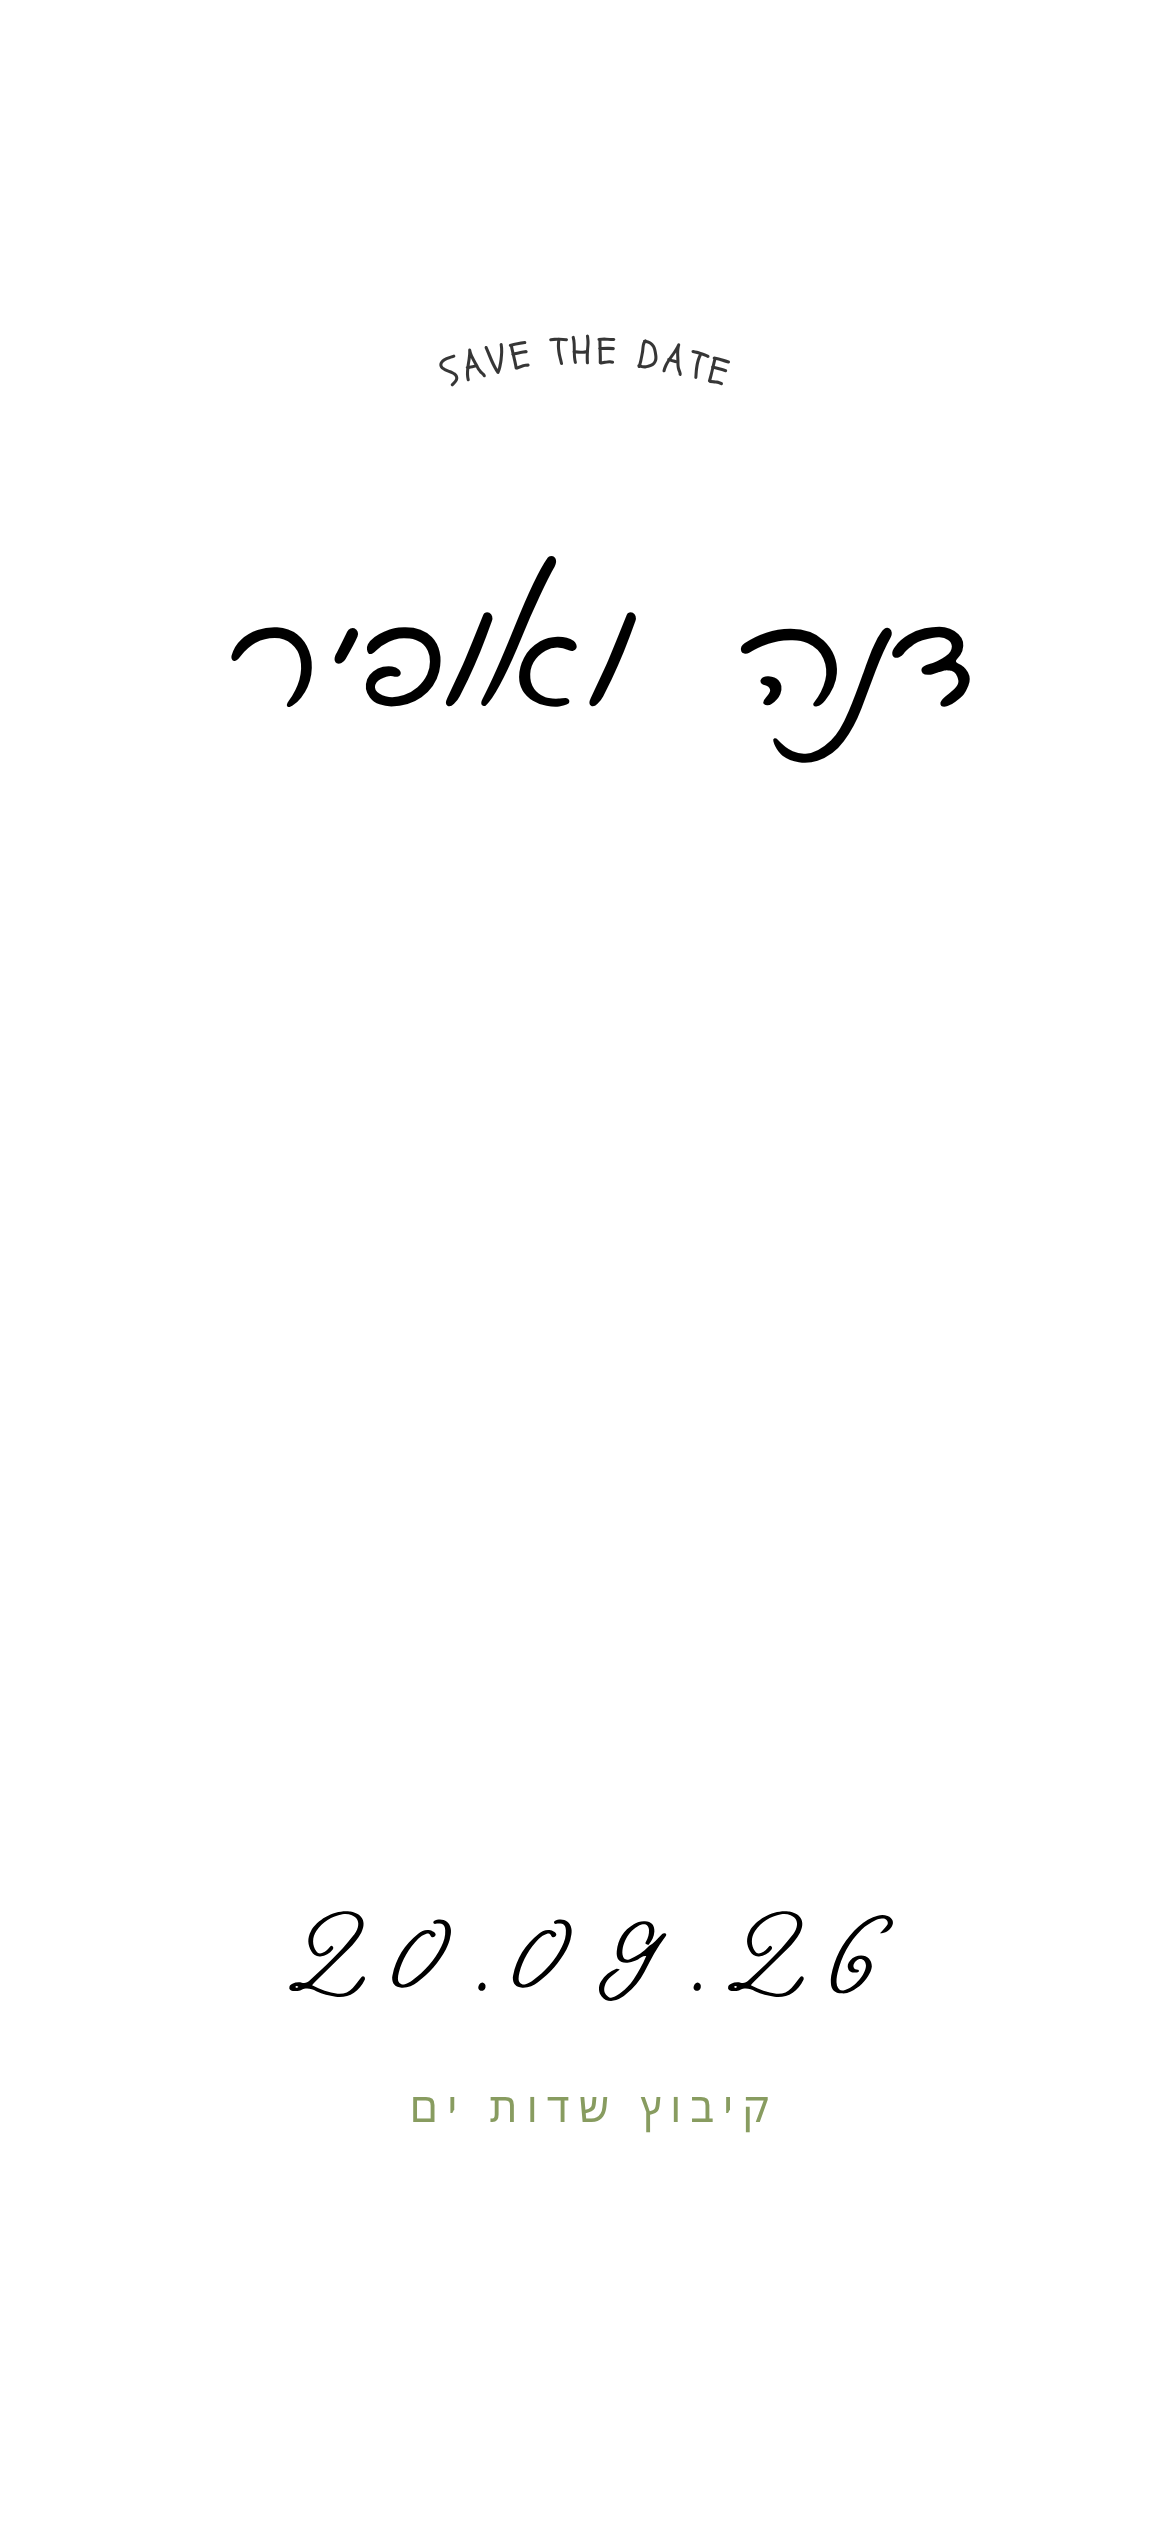
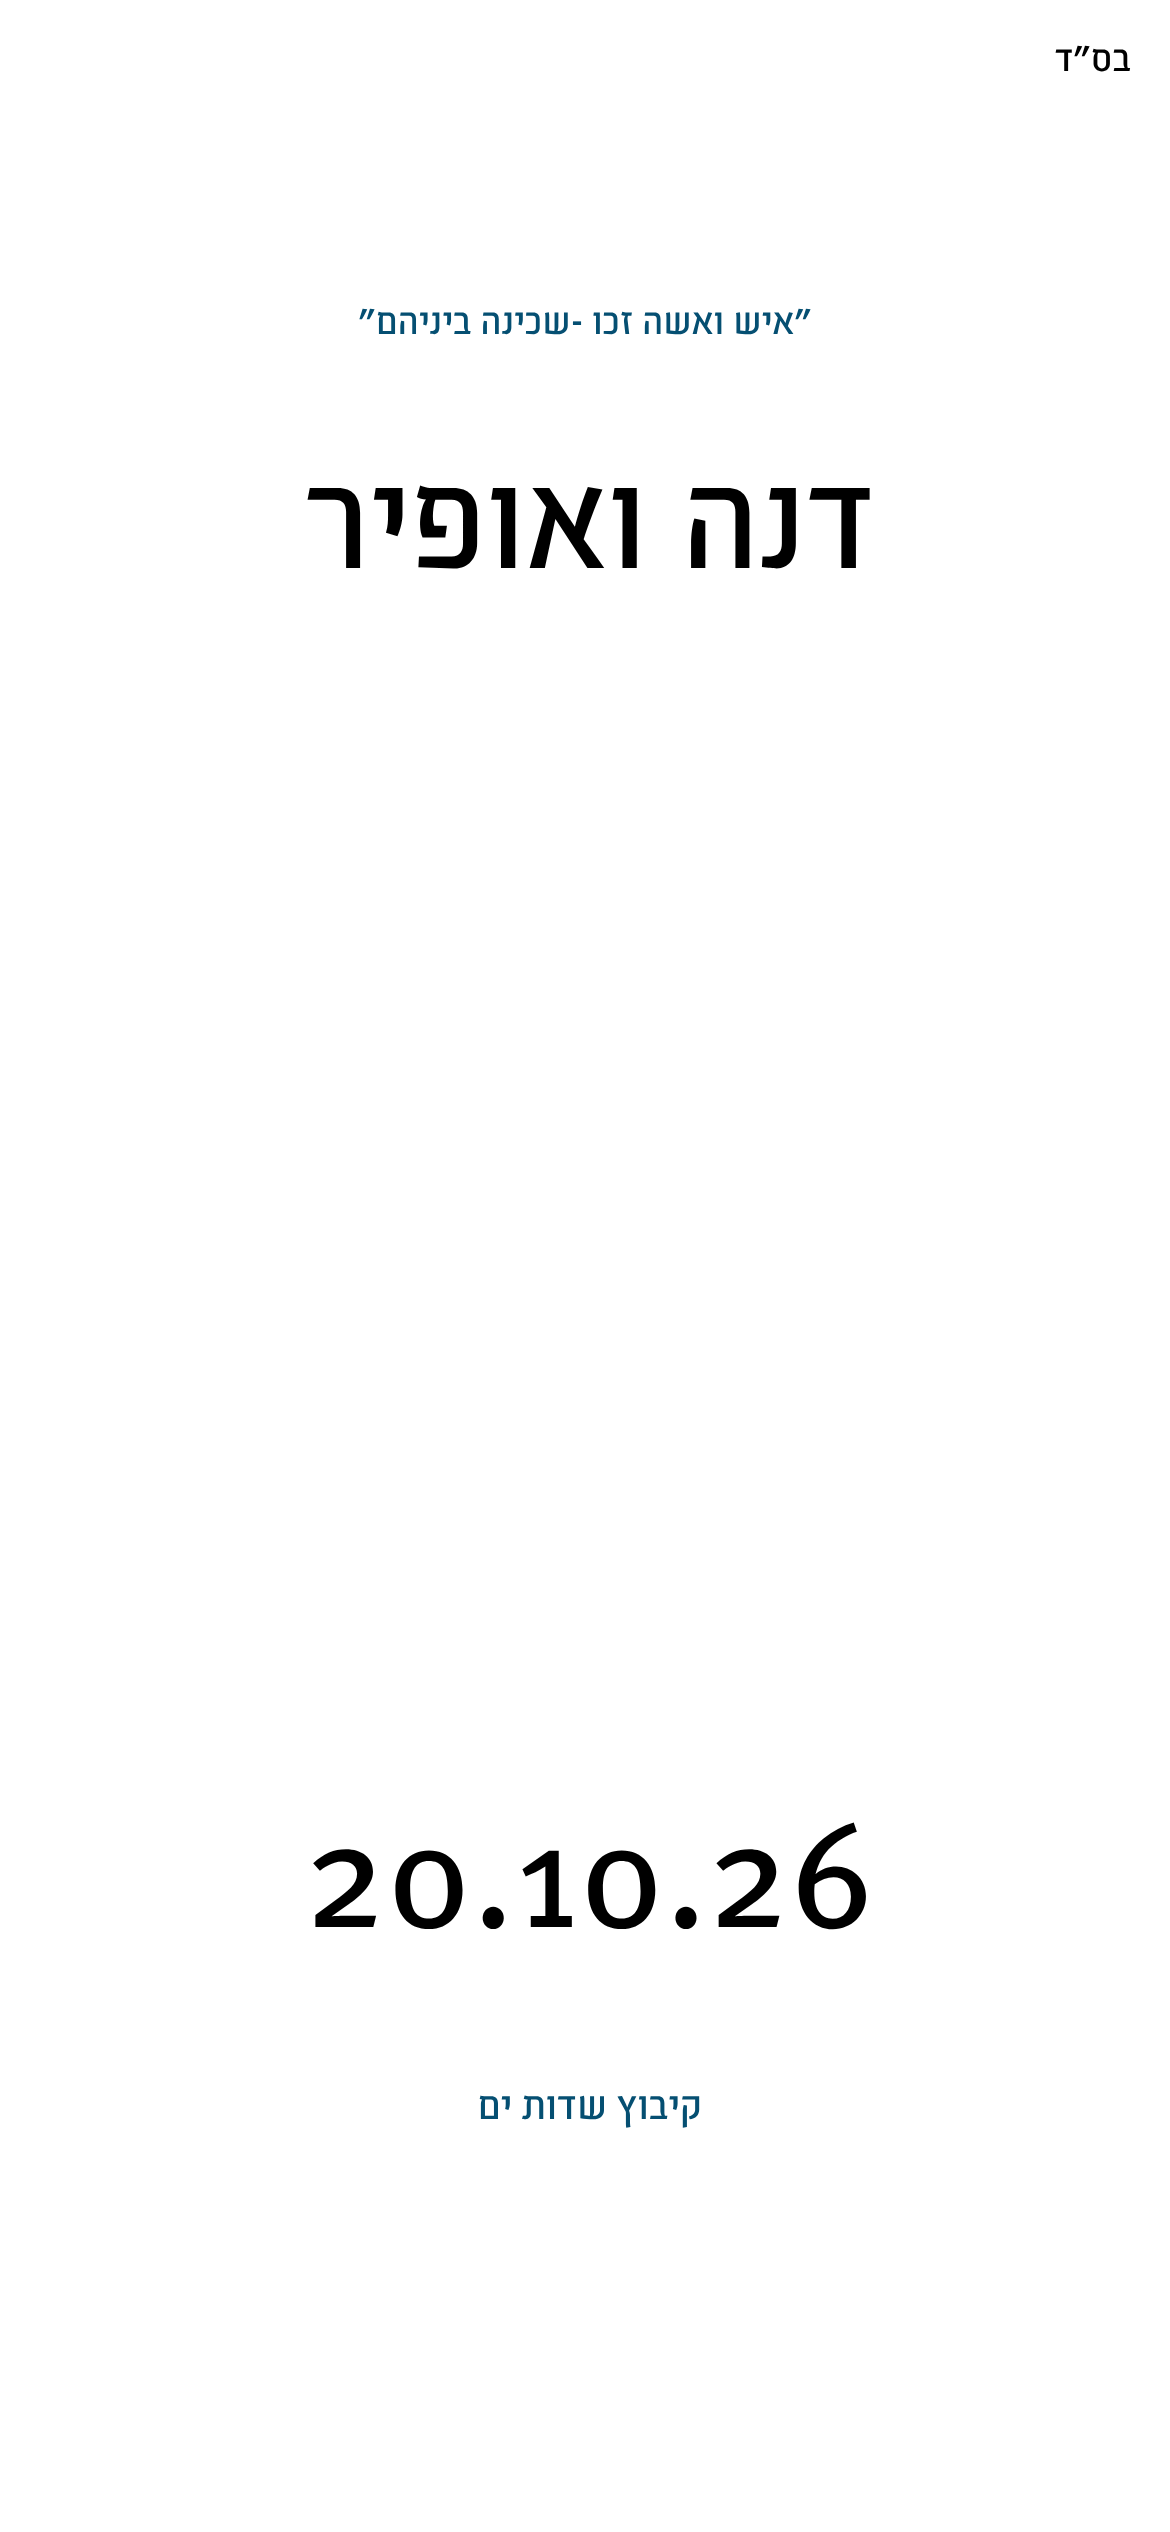
des 2 om progerss

diff --git a/src/designs/design2/index.jsx b/src/designs/design2/index.jsx
@@ -3,7 +3,6 @@
  * Elegant minimalist design with staggered fade-in text.
  */
 
-import { motion } from 'framer-motion'
 import Hero from './components/Hero'
 import RSVP from '../../shared/components/RSVP'
 import config from './config'
@@ -18,144 +17,32 @@ export default function Design2Page() {
     >
       <Hero images={config.images} />
 
-      {/* Blessing section */}
-      <section className="relative w-full md:max-w-2xl lg:max-w-3xl md:mx-auto text-olive overflow-hidden py-12 md:py-20">
-        {/* Left lavender column */}
-        <div className="pointer-events-none absolute top-0 left-0 bottom-0 w-20 md:w-32 flex flex-col justify-between items-start">
-          <motion.img
-            src={config.images.lavender[0]}
-            alt="" aria-hidden="true"
-            className="w-14 md:w-24 opacity-60"
-            style={{ originX: 0.5, originY: 0 }}
-            animate={{ rotate: [-15, -8, -18, -10, -15] }}
-            transition={{ duration: 7, repeat: Infinity, ease: 'easeInOut' }}
-          />
-          <motion.img
-            src={config.images.lavender[3]}
-            alt="" aria-hidden="true"
-            className="w-12 md:w-20 opacity-50 ml-2"
-            style={{ originX: 0.5, originY: 1 }}
-            animate={{ rotate: [-5, 3, -7, 2, -5] }}
-            transition={{ duration: 9, repeat: Infinity, ease: 'easeInOut' }}
-          />
-          <motion.img
-            src={config.images.lavender[2]}
-            alt="" aria-hidden="true"
-            className="w-14 md:w-24 opacity-60"
-            style={{ originX: 0.5, originY: 1 }}
-            animate={{ rotate: [-10, -4, -14, -6, -10] }}
-            transition={{ duration: 8, repeat: Infinity, ease: 'easeInOut' }}
+      {/* Details section */}
+      <section
+        className="relative w-full md:max-w-2xl lg:max-w-3xl md:mx-auto"
+        style={{ backgroundImage: `url(${config.images.bgImg})`, backgroundSize: 'cover' }}
+      >
+        <div className="relative w-full">
+          <img src={config.images.huppa1} alt="" className="relative w-full h-auto" />
+          <img
+            src={config.images.huppa2}
+            alt=""
+            className="absolute inset-0 w-full h-full object-contain pointer-events-none"
           />
         </div>
 
-        {/* Right lavender column */}
-        <div className="pointer-events-none absolute top-0 right-0 bottom-0 w-20 md:w-32 flex flex-col justify-between items-end">
-          <motion.img
-            src={config.images.lavender[1]}
-            alt="" aria-hidden="true"
-            className="w-14 md:w-24 opacity-60"
-            style={{ originX: 0.5, originY: 0, scaleX: -1 }}
-            animate={{ rotate: [15, 8, 18, 10, 15] }}
-            transition={{ duration: 8.5, repeat: Infinity, ease: 'easeInOut' }}
-          />
-          <motion.img
-            src={config.images.lavender[4]}
-            alt="" aria-hidden="true"
-            className="w-12 md:w-20 opacity-50 mr-2"
-            style={{ originX: 0.5, originY: 1, scaleX: -1 }}
-            animate={{ rotate: [5, -3, 7, -2, 5] }}
-            transition={{ duration: 10, repeat: Infinity, ease: 'easeInOut' }}
-          />
-          <motion.img
-            src={config.images.lavender[2]}
-            alt="" aria-hidden="true"
-            className="w-14 md:w-24 opacity-60"
-            style={{ originX: 0.5, originY: 1, scaleX: -1 }}
-            animate={{ rotate: [10, 4, 14, 6, 10] }}
-            transition={{ duration: 7.5, repeat: Infinity, ease: 'easeInOut' }}
-          />
-        </div>
-
-        {/* Text content */}
-        <div className="relative z-10 flex flex-col items-center gap-10 md:gap-16 px-16 md:px-28">
-          <p className="text-center font-sans text-xl md:text-3xl lg:text-4xl font-bold text-olive leading-loose tracking-wide">
-            בשמחה רבה ובהודיה אינסופית לה׳
-            <br />
-             אנו שמחים להזמינכם לחגוג עמנו
-            <br />
-          </p>
-
-          <div className="w-16 md:w-24 h-px bg-blush" />
-
-          <p className="text-center font-sans text-lg md:text-2xl lg:text-3xl font-semibold text-olive-light leading-loose italic">
-            ״יהי שלום בחילך
-            <br />
-            שלווה בארמנותייך״
-          </p>
-          <p className="text-center font-sans text-base md:text-lg font-medium text-olive-muted tracking-widest">
-            (תהילים קכ״ב, ז׳)
-          </p>
-
-          <div className="w-16 md:w-24 h-px bg-blush mx-auto" />
-
-          {/* Parents */}
-          <div className="flex flex-col items-center gap-2 md:gap-4">
-            <div className="flex flex-row justify-center items-start gap-6 md:gap-16">
-              <div className="flex flex-col text-center">
-                <p className="text-sm md:text-base tracking-widest text-olive-light mb-0.5 md:mb-2">{config.parents.bride.label}</p>
-                <p className="font-sans text-base md:text-3xl lg:text-4xl text-olive">{config.parents.bride.names}</p>
-              </div>
-              <div className="flex flex-col text-center">
-                <p className="text-sm md:text-base tracking-widest text-olive-light mb-0.5 md:mb-2">{config.parents.groom.label}</p>
-                <p className="font-sans text-base md:text-3xl lg:text-4xl text-olive">{config.parents.groom.names}</p>
-              </div>
-            </div>
-          </div>
-
-          {/* Couple names */}
-          <p className="text-center font-sans text-3xl md:text-5xl lg:text-6xl font-bold text-olive">
-            {config.couple.person1.name} ו{config.couple.person2.name}
-          </p>
-
-          {/* Date */}
-          <div className="text-center">
-            <p className="font-sans text-xl md:text-3xl lg:text-4xl text-olive">
-              {config.event.dateText}
-            </p>
-            <p className="font-sans text-base md:text-2xl lg:text-3xl text-olive-light mt-1">
-              כ״ו באלול תשפ״ו
-            </p>
-          </div>
-
-          {/* Ceremony */}
-          <div className="text-center">
-            <p className="font-sans text-xl md:text-4xl lg:text-5xl text-olive">
-              {config.event.ceremonyText}
-            </p>
-            <p className="font-sans text-3xl md:text-5xl font-bold text-olive mt-1">
-              {config.event.ceremonyTime}
-            </p>
-          </div>
-
-          {/* Venue + navigation */}
-          <div className="text-center">
-            <p className="font-sans text-lg md:text-3xl lg:text-4xl text-olive mb-1">
-              {config.event.venueName}
-            </p>
-            <div className="flex justify-center mt-2">
-              <a
-                href={config.event.wazeUrl}
-                target="_blank"
-                rel="noopener noreferrer"
-                aria-label="ניווט בוויז"
-                className="flex items-center justify-center w-10 h-10 md:w-12 md:h-12 rounded-full border-2 border-blush text-olive hover:bg-blush-light/30 transition-colors"
-              >
-                <svg className="w-5 h-5 md:w-6 md:h-6" viewBox="0 0 24 24" fill="currentColor" aria-hidden="true">
-                  <path d="M12 2L4.5 20.29l1.35.71L12 18l6.15 3 1.35-.71L12 2z" />
-                </svg>
-              </a>
-            </div>
-          </div>
+        <div className="flex justify-center pb-8 md:pb-12">
+          <a
+            href={config.event.wazeUrl}
+            target="_blank"
+            rel="noopener noreferrer"
+            aria-label="ניווט בוויז"
+            className="flex items-center justify-center w-10 h-10 md:w-12 md:h-12 rounded-full border-2 border-blush text-olive hover:bg-blush-light/30 transition-colors"
+          >
+            <svg className="w-5 h-5 md:w-6 md:h-6" viewBox="0 0 24 24" fill="currentColor" aria-hidden="true">
+              <path d="M12 2L4.5 20.29l1.35.71L12 18l6.15 3 1.35-.71L12 2z" />
+            </svg>
+          </a>
         </div>
       </section>
 

diff --git a/src/designs/design2/config.js b/src/designs/design2/config.js
@@ -5,11 +5,9 @@
 import illustrationImg from '../../../assets/design2/image.png'
 import textImg from '../../../assets/design2/text.png'
 import bgImg from '../../../assets/design2/bg.png'
-import lav1 from '../../../assets/design2/lavander/1.png'
-import lav2 from '../../../assets/design2/lavander/2.png'
-import lav3 from '../../../assets/design2/lavander/3.png'
-import lav4 from '../../../assets/design2/lavander/4.png'
-import lav5 from '../../../assets/design2/lavander/5.png'
+import huppa1 from '../../../assets/design2/huppa1.png'
+import huppa2 from '../../../assets/design2/huppa2.png'
+
 
 export const config = {
   // ── Meta ──
@@ -31,7 +29,7 @@ export const config = {
   targetDate: new Date(2026, 8, 20, 19, 0, 0), // September 20, 2026 at 7:00 PM
 
   // ── Images ──
-  images: { illustrationImg, textImg, bgImg, lavender: [lav1, lav2, lav3, lav4, lav5] },
+  images: { illustrationImg, textImg, bgImg, huppa1, huppa2 },
 
   // ── Couple ──
   couple: {

diff --git a/src/designs/design1/index.jsx b/src/designs/design1/index.jsx
@@ -34,12 +34,8 @@ export default function Design1Page() {
             className="block w-full h-auto max-w-2xl lg:max-w-3xl"
           />
         </motion.section>
-        <motion.div
+        <div
           className="pt-40 md:pt-56"
-          variants={fadeInUp}
-          initial="hidden"
-          whileInView="visible"
-          viewport={{ once: true, amount: 0.15 }}
           style={{
             backgroundImage: `url(${config.images.rsvpImg})`,
             backgroundSize: '100% auto',
@@ -49,7 +45,7 @@ export default function Design1Page() {
           }}
         >
           <RSVP config={{ ...config.rsvp, contacts: config.contacts, sectionBg: 'bg-transparent' }} />
-        </motion.div>
+        </div>
         <footer className="relative w-full overflow-hidden">
           <div className="w-[200%] -ml-[50%] md:w-full md:ml-0">
             <img
